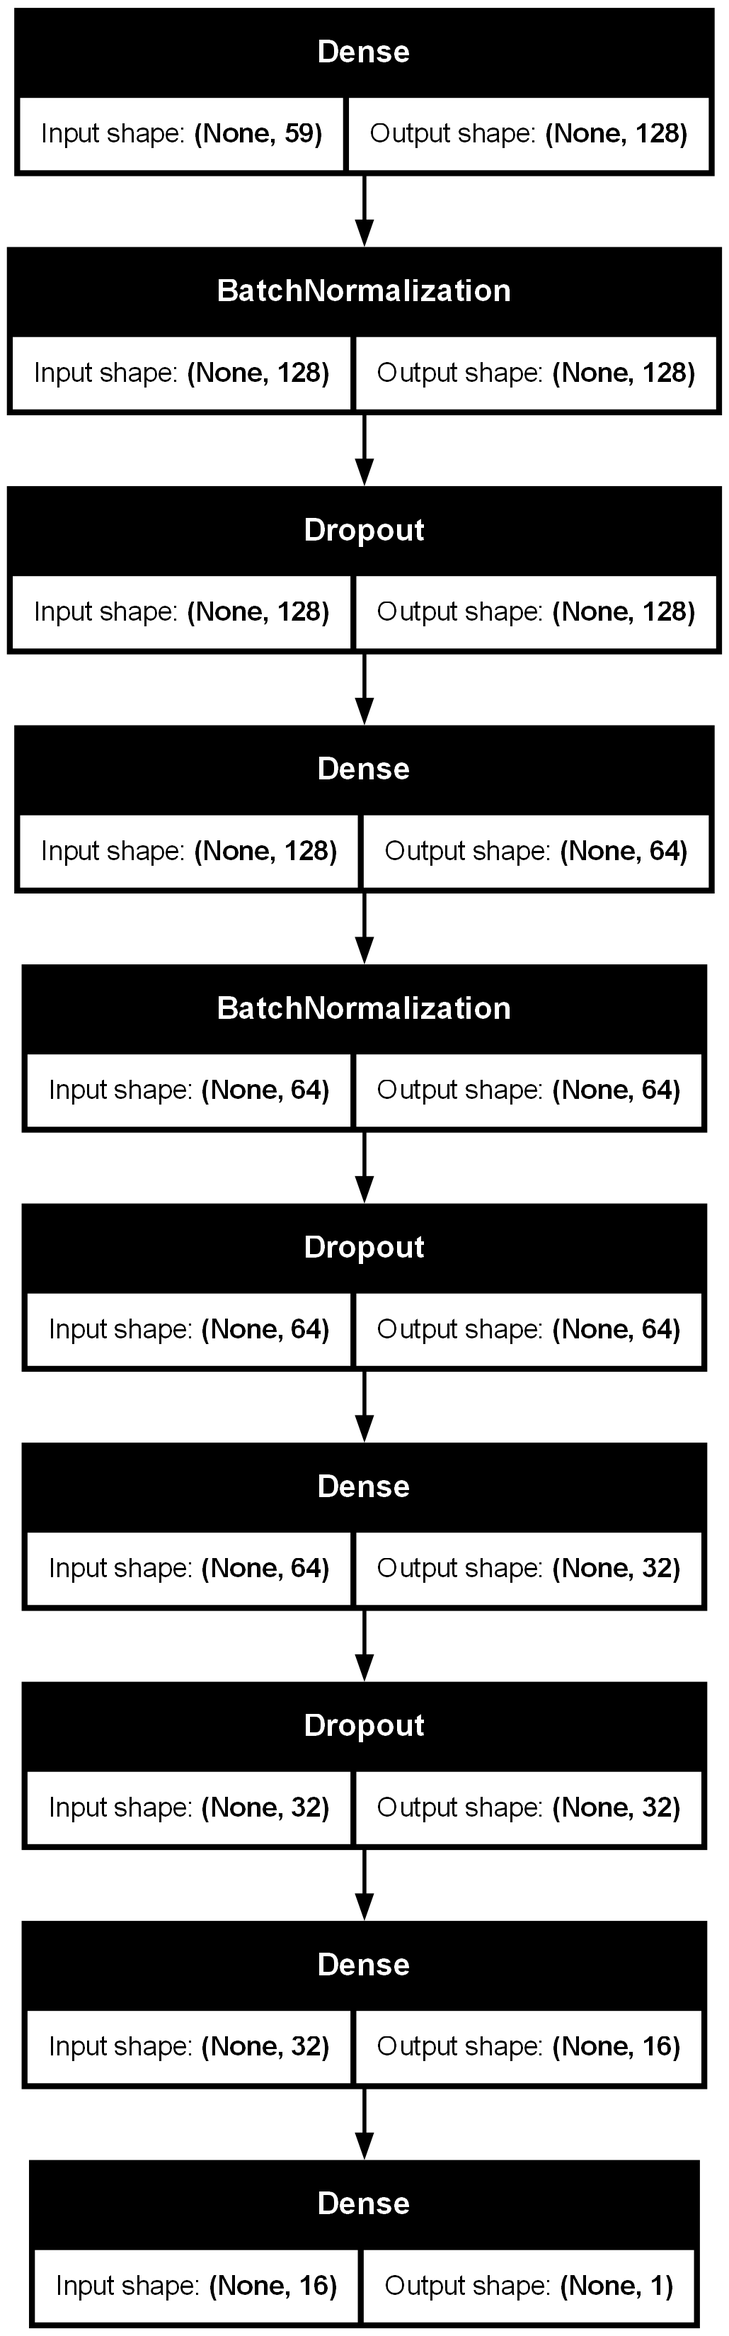
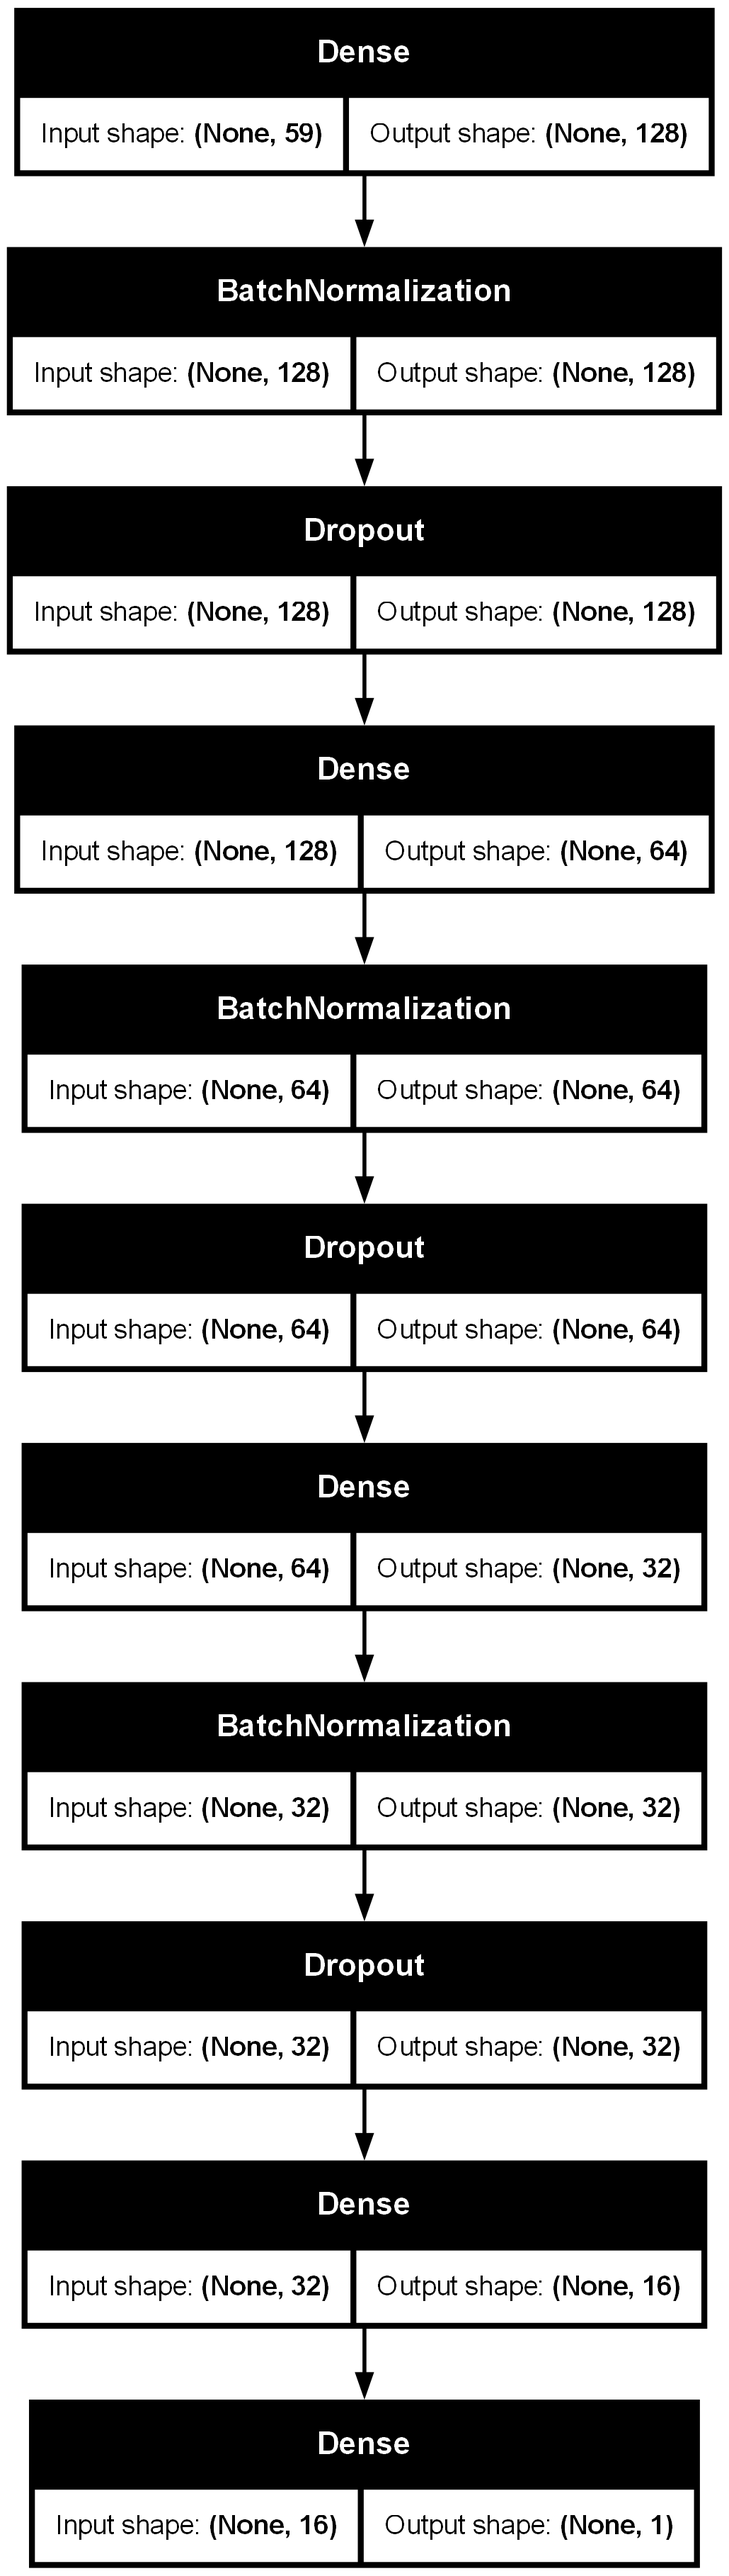
Added training and evaluation pipeline for random forest with cross validation, todo: -create master pipeline -rename all the files properly -optimize neural network for better results

diff --git a/run.py b/run.py
@@ -1,11 +1,24 @@
-from pipelines import datapipeline, dataengineeringpipeline, splittinddatapipeline, trainandpredictpipelineneuralnetwork
-from pipelines import masterpipeline, modelevaluationpipeline
+from pipelines import datapipeline, dataengineeringpipeline, splittinddatapipeline, trainpipelineneuralnetwork
+from pipelines import neuralnetwork_modelevaluationpipeline, trainpipelinerandomforest, randomforest_modelevaluationpipeline
 
+# Loading dataset
 dataloader = datapipeline.datapipeline.with_options(
     config_path='dataloaderconfig.yml')()
+
+# Performing important steps on the data
 dataengineeringpipeline_instance = dataengineeringpipeline.dataengineeringpipeline.with_options(
     config_path='dataengineeringconfig.yml')()
+
+# Splitting dataset into X and y and train-test sets
 splittingdatapipeline_instance = splittinddatapipeline.splittingdatapipeline.with_options(
     config_path='splittingdataconfig.yml')()
-trainandpredictpipeline_instace = trainandpredictpipelineneuralnetwork.trainandpredictpipeline()
-modelevaluationpipeline_instance = modelevaluationpipeline.modelevaluationpipeline()
+
+# Training and evaluating - Neural Network
+trainandpredictpipeline_nn_instace = trainpipelineneuralnetwork.train_neuralnetwork_pipeline()
+modelevaluationpipeline_nn_instance = neuralnetwork_modelevaluationpipeline.neuralnetwork_modelevaluationpipeline()
+
+# Training and evaluating - Random Forest
+trainandpredictpipeline_rf_instace = trainpipelinerandomforest.train_randomforest_pipeline.with_options(
+    config_path='randomforestconfig.yml'
+)()
+modelevaluationpipeline_rf_instance = randomforest_modelevaluationpipeline.randomforest_modelevaluationpipeline()

diff --git a/pipelines/randomforest_modelevaluationpipeline.py b/pipelines/randomforest_modelevaluationpipeline.py
@@ -1,20 +1,19 @@
 from zenml import pipeline
 from zenml.client import Client
-from steps import trainandpredictnn
-import pandas as pd
+from steps import evaluaterandomforest
 
 
 @pipeline(enable_cache=False)
-def trainandpredictpipeline():
+def randomforest_modelevaluationpipeline():
     client = Client()
+
+    rf_model = client.get_artifact_version(name_id_or_prefix='train_randomforest_pipeline::trainrf_withcv::output_0')
+    cv_scores = client.get_artifact_version(name_id_or_prefix='train_randomforest_pipeline::trainrf_withcv::output_1')
 
     X_train = client.get_artifact_version(name_id_or_prefix='splittingdatapipeline::traintestsplit::output_0')
     X_test = client.get_artifact_version(name_id_or_prefix='splittingdatapipeline::traintestsplit::output_1')
     y_train = client.get_artifact_version(name_id_or_prefix='splittingdatapipeline::traintestsplit::output_2')
     y_test = client.get_artifact_version(name_id_or_prefix='splittingdatapipeline::traintestsplit::output_3')
 
-    model = trainandpredictnn.compileneuralnetwork(X_train)
-    trainandpredictnn.plotmodel(model)
-    trainedmodel = trainandpredictnn.trainmodel(model=model, X_train=X_train, y_train=y_train,
-                                                X_test=X_test, y_test=y_test)
-    trainandpredictnn.summarizemodel(trainedmodel)
+    evaluaterandomforest.evaluate_randomoforest_withcv(clf=rf_model, cv_scores=cv_scores, X_train=X_train, y_train=y_train,
+                                                       X_test=X_test, y_test=y_test)

diff --git a/steps/evaluaterandomforest.py b/steps/evaluaterandomforest.py
@@ -1,0 +1,38 @@
+from zenml import step
+from sklearn.metrics import accuracy_score
+import numpy as np
+from sklearn.ensemble import RandomForestClassifier
+import pandas as pd
+from sklearn.metrics import classification_report, confusion_matrix
+import matplotlib.pyplot as plt
+import seaborn as sns
+
+
+@step(enable_cache=False)
+def evaluate_randomoforest_withcv(clf: RandomForestClassifier, cv_scores: np.ndarray, X_train: pd.DataFrame,
+                                  y_train: pd.Series, X_test: pd.DataFrame, y_test: pd.Series):
+
+    print(f'Cross-validation scores: {cv_scores}')
+    print(f'Mean CV accuracy: {np.mean(cv_scores):.4f}')
+    print(f'Standard deviation of CV accuracy: {np.std(cv_scores):.4f}')
+
+    clf.fit(X_train, y_train)
+    y_pred = clf.predict(X_test)
+    accuracy = accuracy_score(y_test, y_pred)
+    print(f'Test Accuracy:  {accuracy}')
+
+    print("\nClassification Report:")
+    print(classification_report(y_test, y_pred))
+
+    print("\nConfusion Matrix:")
+    print(confusion_matrix(y_test, y_pred))
+
+    conf_matrix = confusion_matrix(y_test, y_pred)
+    plt.figure(figsize=(10, 8))
+    sns.heatmap(conf_matrix, annot=True, fmt='d', cmap='Blues')
+    plt.xlabel('Predicted Labels')
+    plt.ylabel('True Labels')
+    plt.title('Random Forest Confusion Matrix')
+    plt.savefig('DataPlots/randomforest_confusionmatrix')
+    plt.show()
+

diff --git a/steps/evaluateneuralnetwork.py b/steps/evaluateneuralnetwork.py
@@ -1,5 +1,5 @@
 from zenml import step
-from keras._tf_keras.keras.models import Sequential, Model
+from keras._tf_keras.keras.models import Sequential
 from sklearn.metrics import classification_report, confusion_matrix
 import pandas as pd
 import matplotlib.pyplot as plt
@@ -8,13 +8,14 @@ import numpy as np
 
 
 @step(enable_cache=False)
-def evaluate(model: Sequential, X_test: pd.DataFrame, y_test: pd.Series):
+def evaluate_neuralnetwork(model: Sequential, X_test: pd.DataFrame, y_test: pd.Series):
     loss, accuracy = model.evaluate(X_test, y_test, verbose=0)
     print(f'Test Loss: {loss}')
     print(f'Test Accuracy: {accuracy}')
 
     y_pred_probs = model.predict(X_test)
     y_pred = np.round(y_pred_probs).astype(int).flatten()
+
     print("\nClassification Report:")
     print(classification_report(y_test, y_pred))
 
@@ -26,6 +27,6 @@ def evaluate(model: Sequential, X_test: pd.DataFrame, y_test: pd.Series):
     sns.heatmap(conf_matrix, annot=True, fmt='d', cmap='Blues')
     plt.xlabel('Predicted Labels')
     plt.ylabel('True Labels')
-    plt.title('Confusion Matrix')
-    plt.savefig('DataPlots/confusionmatrix')
+    plt.title('Neural Network Confusion Matrix')
+    plt.savefig('DataPlots/neuralnetwork_confusionmatrix')
     plt.show()

diff --git a/steps/splittingdata.py b/steps/splittingdata.py
@@ -5,11 +5,16 @@ from typing import Tuple
 
 
 @step
-def traintestsplit(df: pd.DataFrame, train_sample: int, test_sample: int, random_state: int) -> Tuple[pd.DataFrame,
-                                                                                                  pd.DataFrame,
-                                                                                                  pd.Series, pd.Series]:
-    X = df.drop('team1_win', axis=1)
-    y = df['team1_win']
+def splitdata(df: pd.DataFrame, columntodrop: str) -> Tuple[pd.DataFrame, pd.Series]:
+    X = df.drop(columntodrop, axis=1)
+    y = df[columntodrop]
+    return X, y
+
+
+@step
+def traintestsplit(X: pd.DataFrame, y: pd.Series, train_sample: int, test_sample: int, random_state: int) -> Tuple[pd.DataFrame,
+                                                                                                      pd.DataFrame,
+                                                                                                      pd.Series, pd.Series]:
 
     X_train, X_test, y_train, y_test = train_test_split(X, y, train_size=train_sample, test_size=test_sample,
                                                         random_state=random_state, shuffle=True)

diff --git a/pipelines/trainpipelineneuralnetwork.py b/pipelines/trainpipelineneuralnetwork.py
@@ -1,0 +1,22 @@
+from zenml import pipeline
+from zenml.client import Client
+from steps import trainandpredictnn
+import pandas as pd
+
+
+@pipeline(enable_cache=False)
+def train_neuralnetwork_pipeline():
+    client = Client()
+
+    X_train = client.get_artifact_version(name_id_or_prefix='splittingdatapipeline::traintestsplit::output_0')
+    X_test = client.get_artifact_version(name_id_or_prefix='splittingdatapipeline::traintestsplit::output_1')
+    y_train = client.get_artifact_version(name_id_or_prefix='splittingdatapipeline::traintestsplit::output_2')
+    y_test = client.get_artifact_version(name_id_or_prefix='splittingdatapipeline::traintestsplit::output_3')
+
+    #model = trainandpredictnn.compileneuralnetwork(X_train)
+    model = trainandpredictnn.compilecomplexneuralnetwork(X_train)
+    trainandpredictnn.plotmodel(model)
+    trainedmodel = trainandpredictnn.trainmodel(model=model, X_train=X_train, y_train=y_train,
+                                                X_test=X_test, y_test=y_test)
+    trainandpredictnn.summarizemodel(trainedmodel)
+

diff --git a/pipelines/trainpipelinerandomforest.py b/pipelines/trainpipelinerandomforest.py
@@ -1,0 +1,19 @@
+from zenml import pipeline
+from zenml.client import Client
+from steps import trainandpredictrf
+from steps import evaluaterandomforest
+
+
+@pipeline(enable_cache=False)
+def train_randomforest_pipeline(random_state: int, n_splits: int):
+    client = Client()
+
+    X = client.get_artifact_version(name_id_or_prefix='splittingdatapipeline::splitdata::output_0')
+    y = client.get_artifact_version(name_id_or_prefix='splittingdatapipeline::splitdata::output_1')
+
+    X_train = client.get_artifact_version(name_id_or_prefix='splittingdatapipeline::traintestsplit::output_0')
+    X_test = client.get_artifact_version(name_id_or_prefix='splittingdatapipeline::traintestsplit::output_1')
+    y_train = client.get_artifact_version(name_id_or_prefix='splittingdatapipeline::traintestsplit::output_2')
+    y_test = client.get_artifact_version(name_id_or_prefix='splittingdatapipeline::traintestsplit::output_3')
+
+    rf_model, cv_scores = trainandpredictrf.trainrf_withcv(X=X, y=y, random_state=random_state, n_splits=n_splits)

diff --git a/pipelines/splittinddatapipeline.py b/pipelines/splittinddatapipeline.py
@@ -5,7 +5,7 @@ import pandas as pd
 
 
 @pipeline(enable_cache=False)
-def splittingdatapipeline(train_sample: int, test_sample: int, random_state: int):
+def splittingdatapipeline(train_sample: int, test_sample: int, random_state: int, columntodrop: str):
     client = Client()
 
     latest_run = client.get_pipeline('dataengineeringpipeline').runs[-1]
@@ -19,6 +19,7 @@ def splittingdatapipeline(train_sample: int, test_sample: int, random_state: int
     print(dataframe_artifact.name)
 
     df = client.get_artifact_version(name_id_or_prefix=dataframe_artifact.name)
+    X, y = splittingdata.splitdata(df=df, columntodrop=columntodrop)
 
-    X_train, X_test, y_train, y_test = splittingdata.traintestsplit(df=df, train_sample=train_sample, test_sample=test_sample,
+    X_train, X_test, y_train, y_test = splittingdata.traintestsplit(X=X, y=y, train_sample=train_sample, test_sample=test_sample,
                                                                     random_state=random_state)

diff --git a/steps/trainandpredictnn.py b/steps/trainandpredictnn.py
@@ -28,6 +28,26 @@ def compileneuralnetwork(X_train: pd.DataFrame) -> Sequential:
 
 
 @step(enable_cache=False)
+def compilecomplexneuralnetwork(X_train: pd.DataFrame) -> Sequential:
+    model = Sequential([
+        Dense(128, activation='relu', kernel_regularizer=l2(0.001), input_shape=(X_train.shape[1],)),
+        BatchNormalization(),
+        Dropout(0.4),
+        Dense(64, activation='relu', kernel_regularizer=l2(0.001)),
+        BatchNormalization(),
+        Dropout(0.3),
+        Dense(32, activation='relu', kernel_regularizer=l2(0.001)),
+        BatchNormalization(),
+        Dropout(0.2),
+        Dense(16, activation='relu', kernel_regularizer=l2(0.001)),
+        Dense(1, activation='sigmoid')
+    ])
+
+    model.compile(optimizer='adam', loss='binary_crossentropy', metrics=['accuracy'])
+    return model
+
+
+@step(enable_cache=False)
 def plotmodel(model: Sequential):
     plot_model(model, to_file='DataPlots/model.png', show_shapes=True)
 

diff --git a/pipelines/masterpipeline.py b/pipelines/masterpipeline.py
@@ -1,5 +1,6 @@
 from zenml import pipeline
-from pipelines import dataengineeringpipeline, datapipeline, splittinddatapipeline, trainandpredictpipelineneuralnetwork
+from pipelines import dataengineeringpipeline, datapipeline, splittinddatapipeline, trainpipelineneuralnetwork
+from pipelines import neuralnetwork_modelevaluationpipeline
 
 
 @pipeline(enable_cache=False)
@@ -10,4 +11,6 @@ def masterpipeline():
         config_path='dataengineeringconfig.yml')()
     splittingdatapipeline_instance = splittinddatapipeline.splittingdatapipeline.with_options(
         config_path='splittingdataconfig.yml')()
-    trainandpredictpipeline_instace = trainandpredictpipelineneuralnetwork.trainandpredictpipeline()
+    trainandpredictpipeline_instace = trainandpredictpipelineneuralnetwork.train_neuralnetwork_pipeline()
+    modelevaluationpipeline_instance = neuralnetwork_modelevaluationpipeline.neuralnetwork_modelevaluationpipeline()
+

diff --git a/steps/trainandpredictrf.py b/steps/trainandpredictrf.py
@@ -1,0 +1,21 @@
+import pandas as pd
+from sklearn.metrics import accuracy_score
+from zenml import step
+from sklearn.model_selection import cross_val_score, KFold
+from sklearn.ensemble import RandomForestClassifier
+from sklearn.preprocessing import StandardScaler
+from typing import Tuple
+import numpy as np
+
+
+@step(enable_cache=False)
+def trainrf_withcv(X: pd.DataFrame, y: pd.Series, random_state: int,
+                   n_splits: int) -> Tuple[RandomForestClassifier, np.ndarray]:
+    clf = RandomForestClassifier(random_state=random_state)
+
+    k_folds = KFold(n_splits=n_splits)
+
+    cv_scores = cross_val_score(clf, X, y, cv=k_folds)
+    print(type(cv_scores))
+
+    return clf, cv_scores

diff --git a/pipelines/neuralnetwork_modelevaluationpipeline.py b/pipelines/neuralnetwork_modelevaluationpipeline.py
@@ -4,11 +4,11 @@ from steps import evaluateneuralnetwork
 
 
 @pipeline(enable_cache=False)
-def modelevaluationpipeline():
+def neuralnetwork_modelevaluationpipeline():
     client = Client()
 
     X_test = client.get_artifact_version(name_id_or_prefix='splittingdatapipeline::traintestsplit::output_1')
     y_test = client.get_artifact_version(name_id_or_prefix='splittingdatapipeline::traintestsplit::output_3')
     model = client.get_artifact_version(name_id_or_prefix='trainandpredictpipeline::trainmodel::output')
 
-    evaluateneuralnetwork.evaluate(model=model, X_test=X_test, y_test=y_test)
+    evaluateneuralnetwork.evaluate_neuralnetwork(model=model, X_test=X_test, y_test=y_test)
